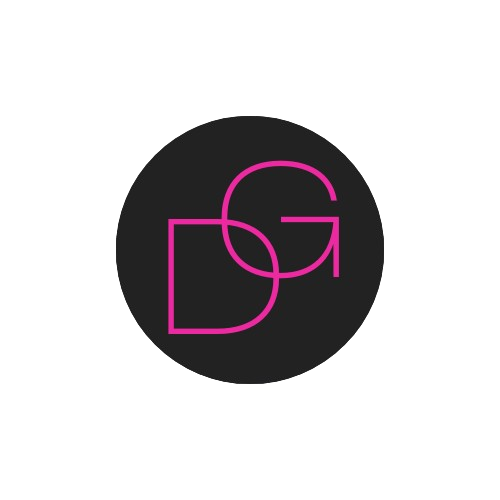
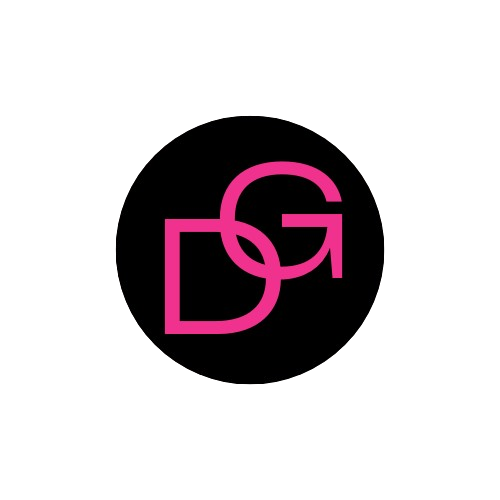
some style, scroll

Changed region(s): [[0.21, 0.21, 0.78, 0.78]]

diff --git a/src/components/main.jsx b/src/components/main.jsx
@@ -4,20 +4,44 @@ import Resume from "./sections/resume";
 import Portfolio from "./sections/portfolio";
 import Footer from './footer';
 import TopBttn from "./items/TopBttn";
-// import { useState } from "react";
+import { scrollTo } from '../store/functions';
+import { useEffect, useState } from "react";
 
 function main() {
-  // const [coord, setCoord] = useState(0);
+  const [showTopButton, setShowTopButton] = useState(false);
+
+  const handleScrollTopButtonVisiblity = () => {
+    window.scrollY > 380 ? setShowTopButton(true) : setShowTopButton(false);
+  }
+
+  useEffect(() => {
+    window.addEventListener("scroll", handleScrollTopButtonVisiblity);
+    return () => {
+      window.removeEventListener("scroll", handleScrollTopButtonVisiblity);
+    };
+  }, [])
+
+  // scroll to current part
+  const [divId, setDivId] = useState('home');
+
+  const handleDivId = (item) => { setDivId(item) };
+  useEffect(() => {
+    const coord = document.getElementById(divId).getBoundingClientRect();
+    window.addEventListener("click", scrollTo(coord.top));
+    return () => {
+      window.removeEventListener("click", scrollTo(coord.top));
+    };
+  }, [divId])
 
   return (
     <>
-      <main className="font-mono relative">
-        <Home id="home"/>
-        <About id="about"/>
-        <Resume id="resume"/>
-        <Portfolio id="portfolio"/>
-        <Footer id="contact"/>
-        <TopBttn />
+      <main className="relative">
+        <Home toScroll={handleDivId}/>
+        <About />
+        <Resume />
+        <Portfolio />
+        <Footer />
+        {showTopButton && (<TopBttn toScroll={handleDivId}/>)}
       </main>
     </>
   )

diff --git a/src/components/footer.jsx b/src/components/footer.jsx
@@ -1,5 +1,5 @@
 import Contacts from '../components/items/Contacts';
-import { CONT_LIST, CONTACTS } from '../store/constants';
+import { CONT_LIST, CONTACTS, YEAR } from '../store/constants';
 import { PINK_TEXT } from "../store/classes";
 import { FaRegCopyright } from "react-icons/fa";
 import { BsGeoAlt } from "react-icons/bs";
@@ -8,14 +8,14 @@ import { MdMailOutline } from "react-icons/md";
 function footer () {
   const contact = CONT_LIST.map((item, index) =>
     <div key={item + index}
-      className='flex flex-col items-center px-16 gap-4'>
+      className='flex flex-col items-center px-4 lg:px-16 gap-4'>
       {index ? <MdMailOutline size={40} fill='rgb(236 72 153)' /> : <BsGeoAlt size={40} fill='rgb(236 72 153)' />}
       <strong>{item}</strong>
     </div>
   )
   return (
     <>
-      <footer className='bg-black flex flex-col items-center pt-24 pb-6 text-white'>
+      <footer id="contacts" className='bg-black flex flex-col items-center pt-24 pb-6 text-white'>
       <h5 className={PINK_TEXT}>{CONTACTS}</h5>
         <div className='flex my-20'>
           {contact}
@@ -23,7 +23,7 @@ function footer () {
         <Contacts />
         <div className='flex gap-2 items-center mt-16 text-gray-400'>
           <FaRegCopyright fill='rgb(156 163 175)' size={15}/>
-          <p>2024</p>
+          <p>{YEAR}</p>
         </div>
       </footer>
     </>

diff --git a/src/components/sections/home.jsx b/src/components/sections/home.jsx
@@ -4,12 +4,14 @@ import Aboutbttn from '../items/Aboutbttn';
 import { HELLO_WORLD, WHO_I_AM, PROFFESION } from '../../store/constants';
 import { PINK_TEXT } from '../../store/classes'
 
-function home() {
+function home(props) {
+  const handleScroll = (item) => props.toScroll(item);
+
   return (
     <>
-      <section className="bg-black h-screen flex flex-col">
+      <section id="home" className="bg-black h-screen flex flex-col">
         <div className="">
-          <Header />
+          <Header scroll={handleScroll}/>
         </div>
         <div className='flex flex-col justify-around h-full items-center my-auto text-white'>
           <div className='flex flex-col justify-center items-center'>
@@ -17,7 +19,7 @@ function home() {
             <h2 className='text-3xl lg:text-5xl'>{WHO_I_AM}</h2>
             <span className="uppercase mt-4 after:content-['|'] after:ml-0.5 before:mr-0.5 before:content-['|'] text-gray-300">{PROFFESION}</span>
             <div className='mt-16'>
-              <Aboutbttn />
+              <Aboutbttn scroll={handleScroll}/>
             </div>
           </div>
           <Contacts/>

diff --git a/src/components/header.jsx b/src/components/header.jsx
@@ -2,13 +2,15 @@ import { useState } from "react";
 import { NAV_LIST, LG_SCREEN } from "../store/constants";
 import { AiOutlineMenu, AiOutlineClose } from "react-icons/ai";
 
-function header() {
-  const isScreenWide = window.screen.width < LG_SCREEN
+function header(props) {
+  const clicked = (item) => props.scroll(item);
 
-  const [nav, setNav] = useState(!isScreenWide)
+  const isScreenWide = window.screen.width < LG_SCREEN;
+
+  const [nav, setNav] = useState(!isScreenWide);
   const handleNav = () => { setNav(!nav) }
 
-  const navList = NAV_LIST.map((nav, index) => <li key={nav + index} className="p-4 cursor-pointer border-b lg:border-none border-gray-100 text-sm hover:text-base lg:text-base hover:text-lg w-36 lg:w-auto ease-in-out duration-200">{ nav }</li>);
+  const navList = NAV_LIST.map((nav, index) => <li key={nav + index} onClick={e => clicked(e.target.innerHTML)} className="p-4 cursor-pointer border-b lg:border-none border-gray-100 text-sm hover:text-base lg:text-base hover:lg:text-lg w-36 lg:w-auto ease-in-out duration-200">{ nav }</li>);
 
   return (
     <>

diff --git a/src/components/sections/about.jsx b/src/components/sections/about.jsx
@@ -16,11 +16,11 @@ function about () {
 
   return (
     <>
-      <section className="flex flex-col py-24 items-center">
+      <section id="about" className="flex flex-col py-24 items-center">
         <h5 className={PINK_TEXT}>{ABOUT}</h5>
         <img src="src/assets/img/img.png" alt="avatar" className="w-32 h-32 rounded-full object-cover mt-10"/>
-        <div className="flex flex-col lg:flex-row max-w-[1240px] mx-auto my-10">
-          <div className="mx-20 my-5">
+        <div className="flex flex-col lg:flex-row lg:w-full max-w-[1240px] lg:mx-auto my-10">
+          <div className="mx-4 lg:mx-20 my-5 w-full lg:w-1/2">
             <strong className="uppercase">
               {PROFILE}
             </strong>
@@ -28,7 +28,7 @@ function about () {
               {list}
             </ul>
           </div>
-          <div className="mx-20 lg:w-full my-5">
+          <div className="mx-4 lg:mx-20 my-5 w-full lg:w-1/2">
             <strong className="uppercase">
               {SKILLS}
             </strong>

diff --git a/src/store/constants.js b/src/store/constants.js
@@ -8,7 +8,7 @@ export const PORTFOLIO = 'portfolio'
 
 export const CONTACTS = 'contacts'
 
-export const NAV_LIST = [HOME, ABOUT, RESUME, PORTFOLIO, CONTACTS]
+export const NAV_LIST = [ABOUT, RESUME, PORTFOLIO, CONTACTS]
 
 export const LG_SCREEN = 1024
 
@@ -66,31 +66,31 @@ export const PYTHON = 'python'
 export const SKILL_LIST = [
   {
     skill: HTML_5,
-    percent: 100
+    percent: '100%'
   },
   {
     skill: JS,
-    percent: 80
+    percent: '80%'
   },
   {
     skill: VUE,
-    percent: 90
+    percent: '90%'
   },
   {
     skill: REACT,
-    percent: 50
+    percent: '55%'
   },
   {
     skill: PYTHON,
-    percent: 50
+    percent: '50%'
   },
   {
     skill: CSS,
-    percent: 80
+    percent: '80%'
   },
   {
     skill: TAILWIND,
-    percent: 80
+    percent: '80%'
   }
 ]
 
@@ -129,3 +129,5 @@ export const ST_SPECIALITY = 'Software engineer'
 export const PLACE = 'Almaty, Kazakhstan'
 
 export const CONT_LIST = [PLACE, MY_MAIL]
+
+export const YEAR = '2024'

diff --git a/src/components/items/Aboutbttn.jsx b/src/components/items/Aboutbttn.jsx
@@ -1,13 +1,15 @@
 import { MORE_ABOUT_ME } from '../../store/constants';
 import { MdKeyboardArrowDown } from "react-icons/md";
 
-function aboutBttn () {
+function aboutBttn (props) {
+  const clicked = () => props.scroll('about')
+
   return (
     <>
-      <div className='flex cursor-pointer justify-center border border-gray-500 hover:border-pink-500 ease-in-out duration-500 p-4'>
+      <button onClick={clicked} className='flex justify-center border border-gray-500 hover:border-pink-500 ease-in-out duration-500 p-4'>
         <p className='uppercase font-bold'>{MORE_ABOUT_ME}</p>
         <MdKeyboardArrowDown fill='white' size={20} className='my-auto ml-2'/>
-      </div>
+      </button>
     </>
   )
 }

diff --git a/src/components/items/TopBttn.jsx b/src/components/items/TopBttn.jsx
@@ -1,10 +1,14 @@
 import { FaArrowUpLong } from "react-icons/fa6";
-import { scroolToTop } from '../../store/functions';
 
-function TopBttn () {
+function TopBttn (props) {
+  const clicked = () => {
+    props.toScroll('home');
+    console.log('home')
+  }
+
   return (
     <>
-      <button onClick={scroolToTop} className="fixed flex bottom-0 right-0 h-14 w-10 bg-pink-500 hover:bg-pink-600">
+      <button onClick={clicked} className="fixed flex bottom-2 right-2 h-14 w-14 rounded-full bg-pink-500 hover:bg-pink-600">
         <FaArrowUpLong size={20} fill="white" className="m-auto"/>
       </button>
     </>

diff --git a/src/components/items/Range.jsx b/src/components/items/Range.jsx
@@ -1,10 +1,11 @@
 function range ({ skill, percent }) {
+
   return (
     <>
       <li className="relative w-full mb-2">
         <strong className="uppercase">{skill}</strong>
-        <div className="bg-gray-300 h-2 rounded-sm w-full mt-2">
-          <span className={`absolute bg-black w-[${percent}%] h-2 rounded-sm ease-in-out duration-500`}></span>
+        <div className="bg-gray-300 h-2 rounded-sm w-full mt-2 relative">
+          <span style={{width: `${percent}`}} className='absolute bg-black w-[30%] h-2 rounded-sm'></span>
         </div>
       </li>
     </>

diff --git a/src/components/sections/resume.jsx b/src/components/sections/resume.jsx
@@ -19,7 +19,7 @@ function resume () {
 
   return (
     <>
-      <section className='flex flex-col py-24 items-center bg-gray-100'>
+      <section id="resume" className='flex flex-col py-24 items-center bg-gray-100'>
         <h5 className={PINK_TEXT}>{RESUME}</h5>
         <div className='flex flex-col justify-center items-center mt-10'>
           {jobExp}

diff --git a/index.html b/index.html
@@ -2,7 +2,7 @@
 <html lang="en">
   <head>
     <meta charset="UTF-8" />
-    <link rel="icon" type="image/svg+xml" href="src/assets/gd.svg" />
+    <link rel="icon" type="image/svg+xml" href="src/assets/img/dg.png" />
     <meta name="viewport" content="width=device-width, initial-scale=1.0" />
     <title>myCV</title>
   </head>

diff --git a/src/components/sections/portfolio.jsx b/src/components/sections/portfolio.jsx
@@ -4,7 +4,7 @@ import { PINK_TEXT } from "../../store/classes";
 function portfolio () {
   return (
     <>
-      <section className="flex flex-col py-24 items-center">
+      <section id="portfolio" className="flex flex-col py-24 items-center">
         <h5 className={PINK_TEXT}>{PORTFOLIO}</h5>
       </section>
     </>
